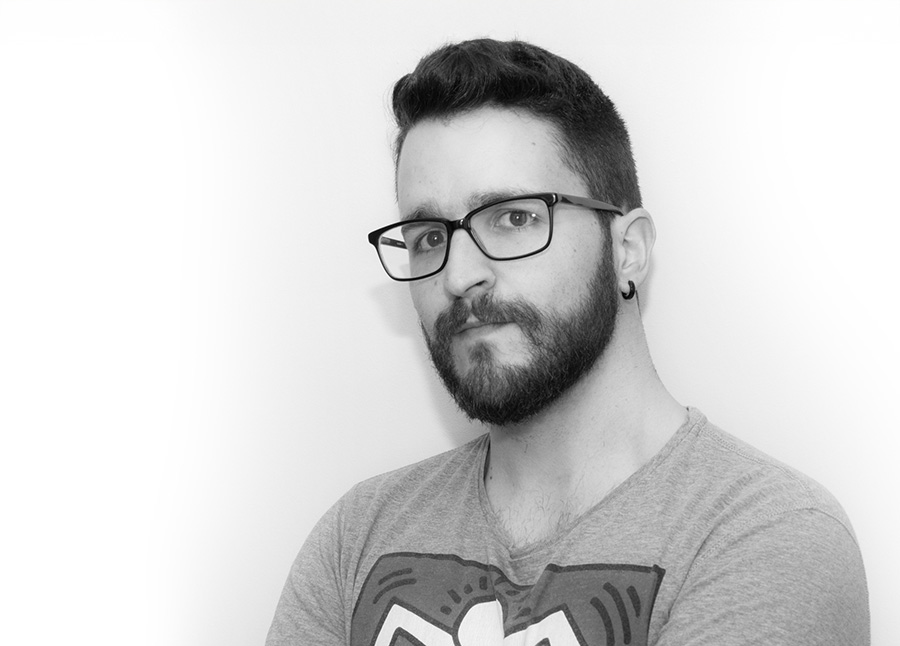
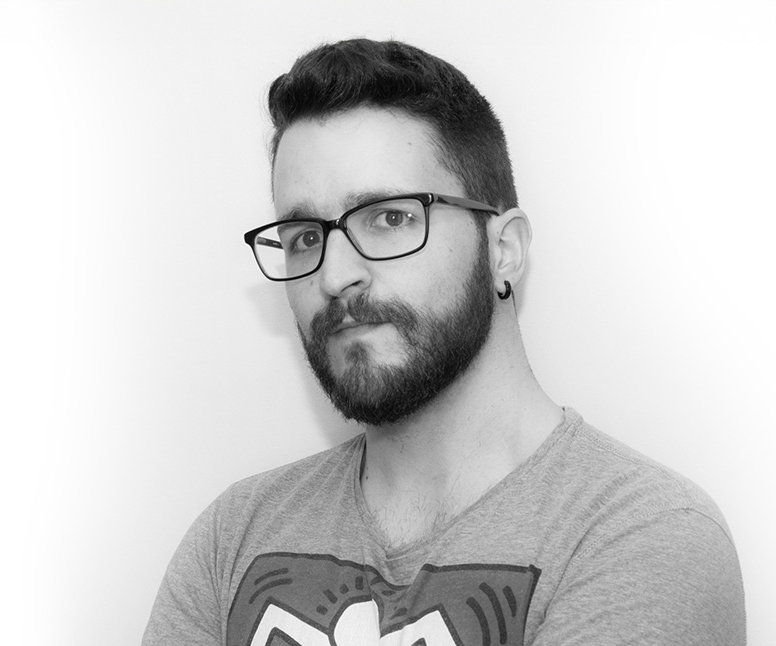
solo falta el objetivo

diff --git a/style.css b/style.css
@@ -2,7 +2,7 @@
     --font: "Poiret One", sans-serif;
     --colorfondo: #0e1f19;
     --colorfuenteN: #e19167;
-    --colorfuenteV: #45d2ab;
+    --colorfuenteV: #fff;
 }
 
 body {
@@ -11,52 +11,97 @@ body {
     color: var(--colorfuenteV);
 }
 
+a {
+    text-decoration: none;
+    color: #45d2ab;
+}
+
 section {
-    width: min(100%, 900px);
-    margin: 0 auto;
+    width: min(100%, 700px);
+    margin: 50px auto 100px auto;
+}
+#intro {
+    display: grid;
+    grid-template-columns: minmax(120px, 25%) 1fr;
+    gap: 1rem;
+    align-items: center;
+    justify-items: center;
+    margin-bottom: 50px;
+}
+
+#intro div:nth-of-type(2) * {
+    margin-top: 10px;
+}
+.marco {
+    width: 100%;
+    aspect-ratio: 1 / 1;
+    border-radius: 50%;
+    overflow: hidden;
+}
+.marco img {
+    object-fit: cover;
+    height: 100%;
+}
+
+#content article {
+    display: flex;
+    flex-direction: column;
+    align-content: center;
+}
+
+#content article div {
+    display: grid;
+    grid-template-columns: 1fr 2fr;
+    grid-template-areas:
+        "fecha titulo"
+        "empty texto";
+    justify-items: start;
+    align-items: start;
+    margin-top: 20px;
+}
+#content article div * {
+    margin-top: 0;
+    margin-bottom: 20px;
+}
+#content article div p:nth-of-type(1) {
+    grid-area: fecha;
+}
+#content article div h5 {
+    grid-area: titulo;
+}
+#content article div p:nth-of-type(2) {
+    grid-area: texto;
 }
 
 
 h2 {
     color: var(--colorfuenteN);
-    font-size: 1.5rem;
-}
-
+    font-size: 1.5rem;}
 h5 {
-    font-size: 1.2rem;
-}
-
+    font-size: 1.2rem;}
 p, a {
     font-size: 1rem;
-    line-height: 1.6;
-}
-
+    line-height: 1.6;}
 
 @media (min-width: 768px) {
     h2 {
-        font-size: 2rem;
-    }
+        font-size: 2rem;}
 
     h5 {
-        font-size: 1.5rem;
-    }
+        font-size: 1.5rem;}
 
     p, a {
-        font-size: 1.1rem;
-    }
+        font-size: 1.3rem;}
 }
 
 /* PANTALLAS GRANDES */
 @media (min-width: 1024px) {
     h2 {
-        font-size: 2.5rem;
-    }
+        font-size: 2.2rem;}
 
     h5 {
-        font-size: 2rem;
-    }
+        font-size: 1.7rem;}
 
     p, a {
-        font-size: 1.2rem;
-    }
+        font-size: 1.4rem;}
 }

diff --git a/index.html b/index.html
@@ -11,13 +11,15 @@
   <link href="https://fonts.googleapis.com/css2?family=Poiret+One&display=swap" rel="stylesheet">
 </head>
 <body>
-  <section id="intro">
-    <div>
-      <img src="yo.jpg">
-      <h2>Alberto Redondo</h2>
-      <h5>Diseñador gráfico e ilustrador</h5>
-      <p>Tel: 644 93 96 13</p>
-      <a href="https://www.albertoredondo.com">albertoredondo.com</a>
+  <section>
+    <div id="intro">
+      <div class="marco"><img src="yo.jpg"></div>
+      <div>
+        <h2>Alberto Redondo</h2>
+        <h5>Diseñador gráfico e ilustrador</h5>
+        <p>Tel: 644 93 96 13</p>
+        <a href="https://www.albertoredondo.com">albertoredondo.com</a>
+      </div>
     </div>
     <h2>Objetivo profesional</h2>
     <p></p>
